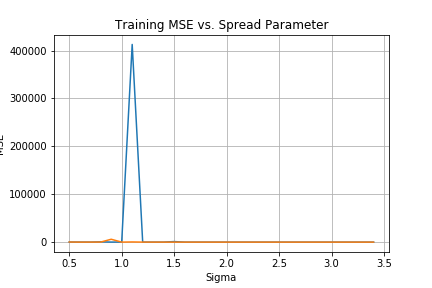
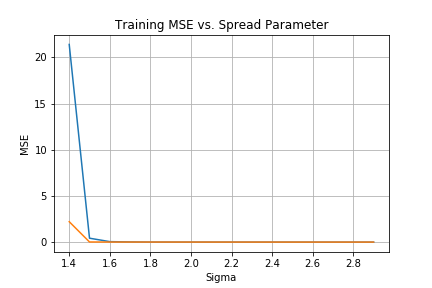
Further update

diff --git a/HW Solutions/Q3_Part2.py b/HW Solutions/Q3_Part2.py
@@ -177,7 +177,7 @@ MSE_train_kmeans = []
 MSE_test_rand = []
 MSE_test_kmeans = []
 
-for sigma in np.arange(0.5,3.5,0.1): 
+for sigma in np.arange(0.5,2,0.1): 
     RBF_Rand = RBF(x_train,clusters1,y_train,sigma)
     RBF_Kmeans = RBF(x_train,clusters2,y_train,sigma)
 
@@ -201,7 +201,7 @@ for sigma in np.arange(0.5,3.5,0.1):
     
 # Plot training results
 
-sigma = np.arange(0.5,3.5,0.1)
+sigma = np.arange(0.5,2,0.1)
 fig,ax = plt.subplots()
 ax.plot(sigma,MSE_train_rand)
 ax.plot(sigma,MSE_train_kmeans)
@@ -214,7 +214,7 @@ plt.show()
 
 # Plot test results
 
-sigma = np.arange(0.5,3.5,0.1)
+sigma = np.arange(0.5,2,0.1)
 fig,ax = plt.subplots()
 ax.plot(sigma,MSE_test_rand)
 ax.plot(sigma,MSE_test_kmeans)
